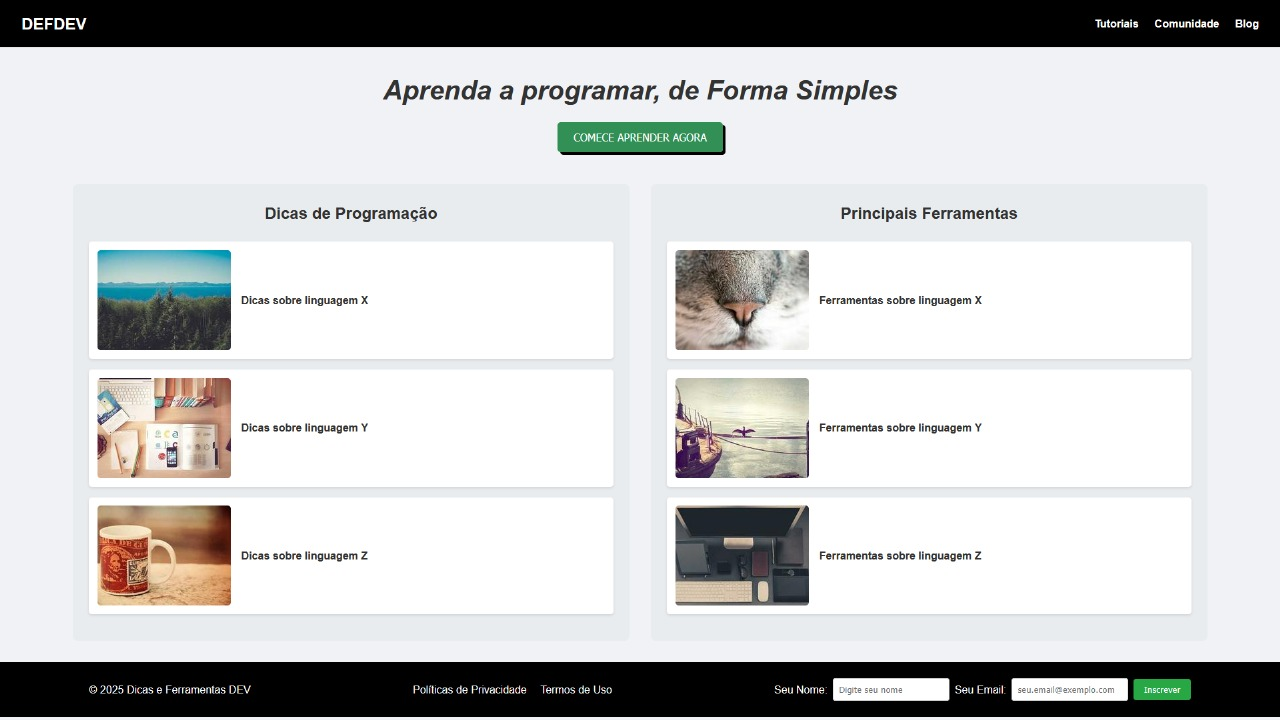
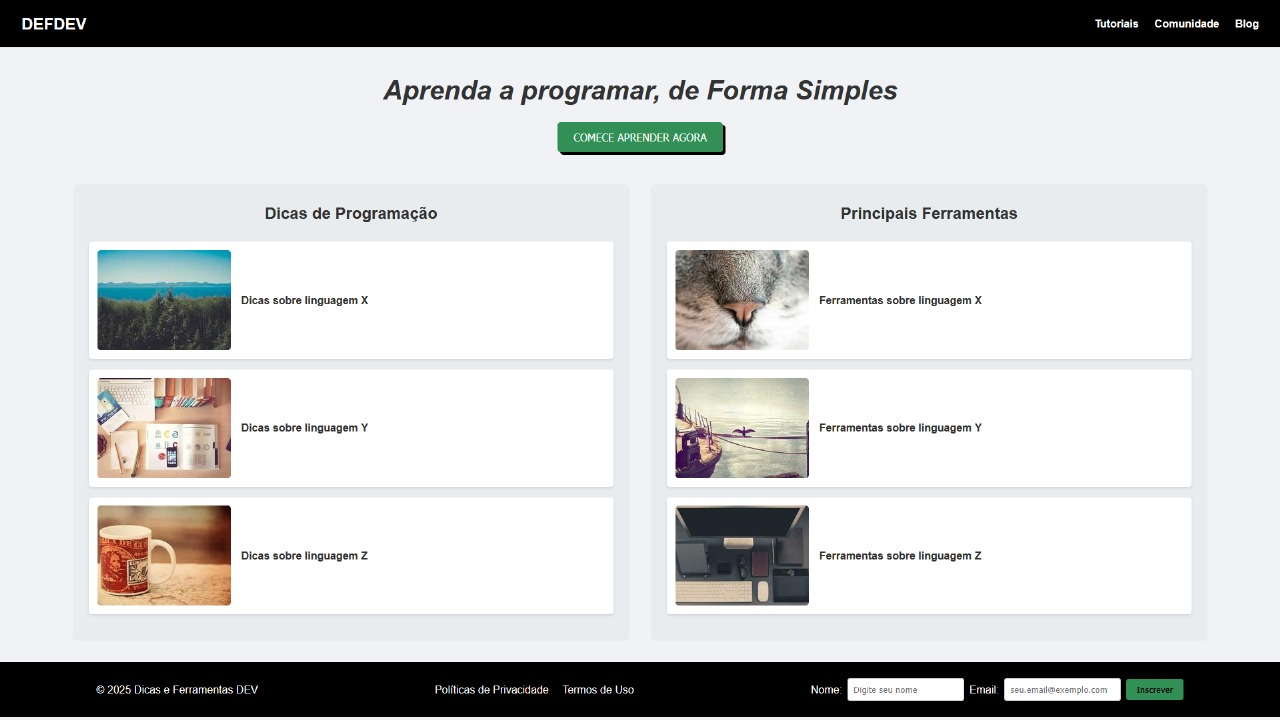
adicionei a imagem da homepage no README

Changed region(s): [[0.5938, 0.9472, 0.9375, 0.9778], [0.3125, 0.9472, 0.5, 0.9778], [0.0625, 0.9472, 0.2188, 0.9778]]

diff --git a/public/index.html b/public/index.html
@@ -66,9 +66,9 @@
             <a href="#">Termos de Uso</a>
         </div>
         <form class="form-inscricao">
-            <label for="nome">Seu Nome:</label>
+            <label for="nome">Nome:</label>
             <input type="text" id="nome" name="nome" placeholder="Digite seu nome" required>
-            <label for="email">Seu Email:</label>
+            <label for="email">Email:</label>
             <input type="email" id="email" name="email" placeholder="seu.email@exemplo.com" required>
             <button type="submit">Inscrever</button>
         </form>

diff --git a/README.md b/README.md
@@ -8,8 +8,8 @@
 
 ## Wireframe
 
-![WireFrame](wireframe_devdef.png)
+![WireFrame](/semana_03_diw/public/wireframe_devdef.png)
 
 ## Print Home-Page
 
-![Home-Page]()
+![Home-Page](/semana_03_diw/public/homepage.jpg)
